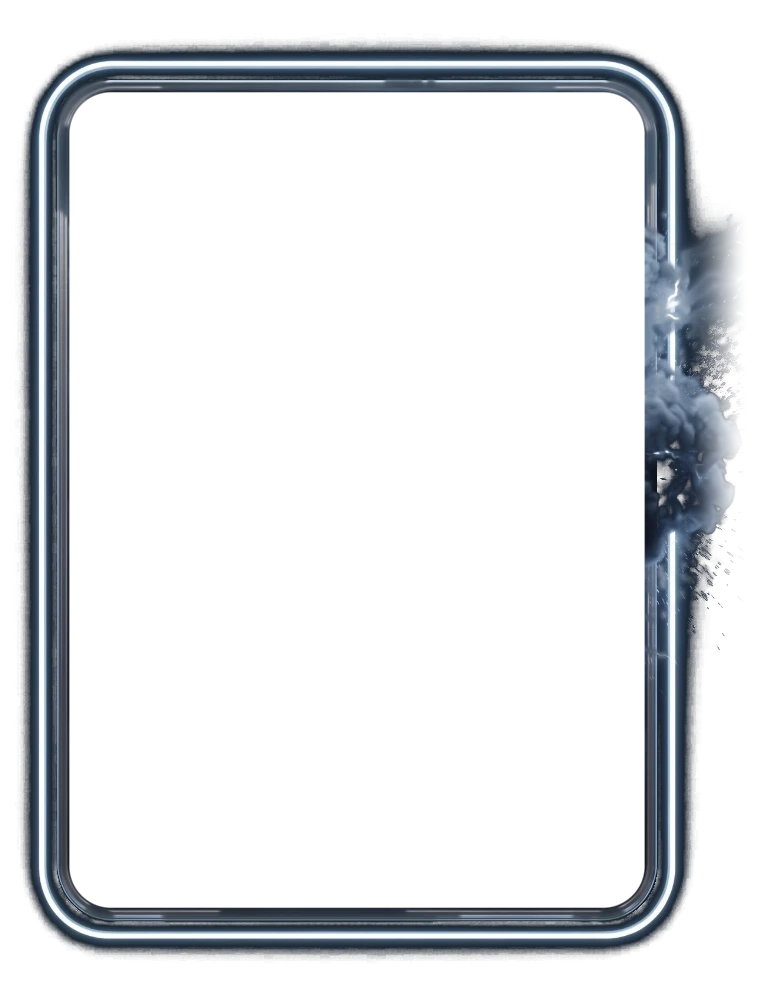
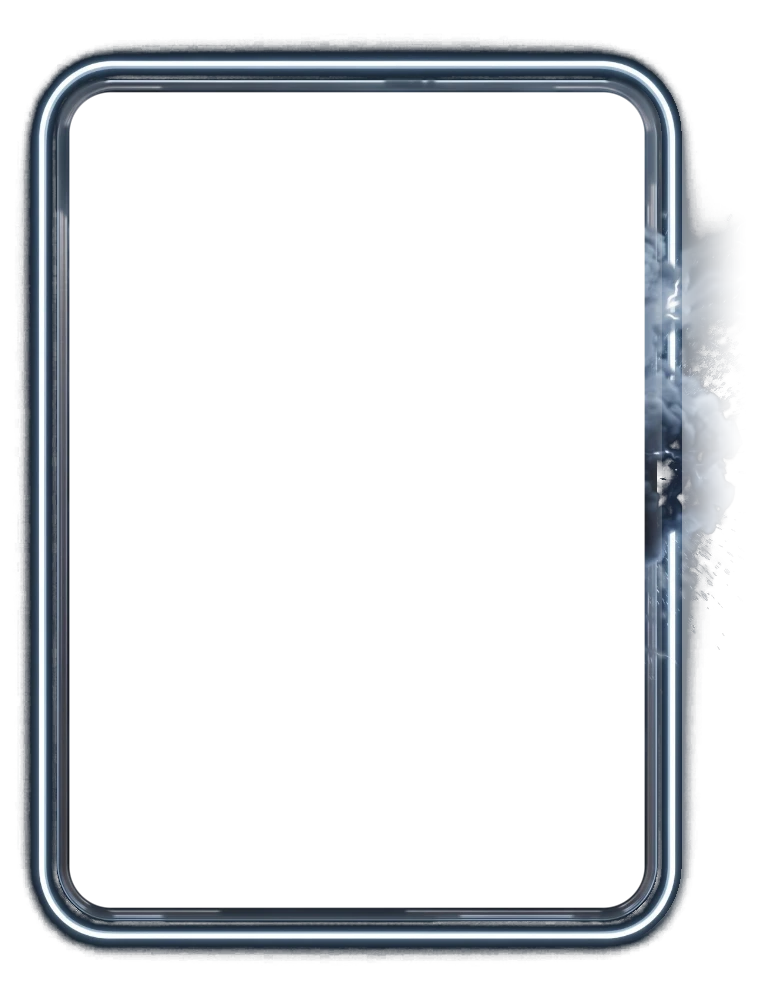
fade the Nuvem carregada cloud smoothly instead of a straight cut

Changed region(s): [[0.8372, 0.093, 0.9612, 0.93]]

diff --git a/.claude/rules/design-system.md b/.claude/rules/design-system.md
@@ -37,7 +37,7 @@ Desde 2026-10-29 todas as cartas usam a `CanchaCard` (o `PlayerCard` a chama). A
 - **Lenda do Trovão** (carta de prestígio **do evento Toró**, na seção Evento da Loja, **nível 5, 600 CC**, à venda só até 30/11/2026; aprovada pelo dono do app em 2026-10-31, primeiro como fixa no nível 10 e no mesmo dia passada para o evento no nível 5): a **moldura de metal dourado envelhecido** de um concept que o dono criou no Gemini, com o raio no topo e raios dourados e azuis, entra por fora da carta como arte (`overflow`), **sem o tubo de neon da carta** (`artFrame`), cobrindo uns 12 px da borda; os **raios azuis estalam como trovão** (`overflowBolts`; os dourados ficam acesos, porque têm a cor do metal e não dá para separar pela cor); o fundo é o miolo da arte de tempestade dele (nuvens carregadas com luz dourada). Scripts `prototipos/skin-lenda-arte.cjs` (moldura e raios, do concept) e `skin-lenda-fundo.cjs` (fundo). Para ficar perfeita, o dono vai gerar no Gemini a moldura, o fundo e os raios em peças separadas. Testadas e descartadas no caminho, como experimento: a carta com a arte de chuva (árvore e água) e a de tempestade com moldura azul e dourada.
 - **Skins premium com cristais (aprovadas pelo dono do app em 2026-11-01; Esmeralda, Safira, Ametista e Rubi):** uma arte só que o dono gerou no Gemini (safira e ouro: fundo azul-noite com estrelas, fio de ouro, neon e um aglomerado de cristais com pepitas de ouro que sai pelo lado direito **por cima** da moldura), reaproveitada nas quatro pedras girando só o tom dos azuis (o ouro fica). `prototipos/premium-v2.cjs` ajusta a arte: proporção 5:7, o neon da arte é **redesenhado concêntrico ao ouro** (respiro de ~1,5% da largura nos quatro lados e nos cantos; o da arte tinha o canto mais fechado e um vão grande) e só ao lado do aglomerado vale o neon original, com passagem suave; saem `premium-<pedra>.webp` (fundo na janela) e `premium-<pedra>-vaza.webp` (moldura e cristais por fora, mais larga só para a direita: `overflowWidth` 774/714, porque o aglomerado passa da sobra de 8%). Cor nova de pedra = uma linha em `GEMS`. Roupas com `artFrame`, `overflow` e `overflowWidth`. **Lição do dono (2026-11-01):** o fundo da carta é o que mais pesa no premium; neon contínuo, fino e simétrico (sem aberturas irregulares); o que vaza passa por cima da moldura. Faixa de estatísticas continua escura e sólida (o vidro fosco foi testado e descartado: misturava estilos). Gemini: dar o gabarito 5:7 e pedir uma camada por mensagem. **O story de compartilhar não usa essa arte** (só cartas de prêmio).
 - **Ícone (2026-11-01, mesmo caminho, outra arte do Gemini):** mármore branco-creme com veios dourados, tubo e fio de ouro (já concêntricos, mantidos como vieram), aglomerado de quartzo, diamantes e pepitas de ouro por cima da moldura; `prototipos/premium-icone.cjs` (sem girar cor). Fundo claro: a roupa leva `clean` (sem a sombra atrás da pessoa, sem a vinheta e sem o degradê escuro que desce até as estatísticas: no mármore eles apareciam como sujeira). **Regra que serve para as próximas artes:** por dentro da carta, a camada de fora (`-vaza`) cobre só o que está fora da janela da carta (fio de ouro e cantos, medido pela janela arredondada); se ela entrar na janela, vira uma faixa por cima do ombro da foto (foi o que o dono viu na Ícone). A foto de exemplo termina com um corte reto antes da borda: com a faixa fora da janela, o corpo chega às duas bordas. A rampa da camada de fora fica 1 a 3 px **por dentro** da janela, onde o fundo sempre está presente: se ela passa da borda (que cai no meio de um pixel), uma coluna meio transparente deixa o escuro de trás aparecer e vira um risco fino por cima dos cristais. Os cristais translúcidos deixam ver o fio de ouro por baixo, como na arte. As premium com cristais (Safira etc.) ainda deixam ~7 px de faixa por cima da foto.
-- **Nuvem carregada (2026-11-01, tema criado do zero no Gemini, sem referência do FIFA, aprovada pelo dono do app):** céu de tempestade em cinza-chumbo e azul-acinzentado, fio de prata, tubo de neon branco, nuvem carregada com raios brancos ramificados que passa por cima da moldura. `prototipos/premium-nuvem.cjs` (mesmas medidas do painel da Ícone) **separa os raios**: tira do fundo tudo o que é branco e brilhante (menos o fio e o tubo) preenchendo com a média da nuvem em volta (suave: blocos apareciam com folga grande e fundo a 1/4 da resolução) e põe os raios em duas camadas que piscam juntas, `innerBolts` (janela, atrás do jogador, `z-2`) e `overflowBolts` (por fora, por cima da moldura), com `cc-thunder-flash` (apagam por inteiro, dois clarões, ciclo de 3,2 s; só `opacity`; com movimento reduzido ficam acesos). A nuvem esmaece antes da borda da arte (o aglomerado vinha cortado reto). A **moldura elétrica e os mini raios em código** (`ElectricTrim`, `CloudBolts`, `lib/electric-trim.ts`) saíram. Pedido do dono: "os raios acendendo".
+- **Nuvem carregada (2026-11-01, tema criado do zero no Gemini, sem referência do FIFA, aprovada pelo dono do app):** céu de tempestade em cinza-chumbo e azul-acinzentado, fio de prata, tubo de neon branco, nuvem carregada com raios brancos ramificados que passa por cima da moldura. `prototipos/premium-nuvem.cjs` (mesmas medidas do painel da Ícone) **separa os raios**: tira do fundo tudo o que é branco e brilhante (menos o fio e o tubo) preenchendo com a média da nuvem em volta (suave: blocos apareciam com folga grande e fundo a 1/4 da resolução) e põe os raios em duas camadas que piscam juntas, `innerBolts` (janela, atrás do jogador, `z-2`) e `overflowBolts` (por fora, por cima da moldura), com `cc-thunder-flash` (apagam por inteiro, dois clarões, ciclo de 3,2 s; só `opacity`; com movimento reduzido ficam acesos). A nuvem vinha cortada reta pela borda direita da imagem: ela **esmaece num degradê longo (~210 px da arte)**; um recorte com ruído, que imitava fumaça, ficou bruto e foi descartado (o dono pediu o esmaecimento suave). O tubo e o fio da moldura não esmaecem. A **moldura elétrica e os mini raios em código** (`ElectricTrim`, `CloudBolts`, `lib/electric-trim.ts`) saíram. Pedido do dono: "os raios acendendo".
 - **Relâmpago (2026-11-01, refeito com a arte dourada do Gemini; "o melhor design até aqui", segundo o dono do app):** referências de relâmpago dele (nuvens negras com raios dourados e laranja), moldura de fio de ouro fino e tubo de neon dourado, nuvem negra com raios e brasas passando por cima da moldura no lado direito. `prototipos/premium-relampago.cjs` (copiado do da Nuvem): a arte veio com a carta mais comprida que 5:7 (1585 × 985 px) e a altura é comprimida ~13% ao encaixar; o brilho laranja em volta dos raios é grande, então os raios são medidos pela **luminância** (só o núcleo claro) e o brilho fica no fundo; a nuvem esmaece antes da borda direita da imagem (a arte vinha cortada reta); `innerBolts` e `overflowBolts` piscam juntos (`cc-thunder-flash`). Substituiu a arte montada pelo dono em 2026-10-31 e o script `skin-relampago-arte.cjs`. **Lição para o Gemini:** pedir a carta em 70% da largura da imagem e o aglomerado inteiro dentro dela; ele devolve a carta mais comprida que 5:7, o que o script corrige.
 - **Toró (novembro de 2026; chave `temporal`; aprovado pelo dono do app em 2026-10-30, ligado em 31/10 e renomeado de "Temporal" para "Toró" no mesmo dia):** a **mesa tática** é uma **quadra alagada** renderizada pixel a pixel (lâmina de água com o piso por baixo, anéis dos pingos, marulho e o reflexo dos refletores dos cantos; meio escuro para as cartas; sem linhas, que cada campo já desenha; `prototipos/mesa-temporal.cjs`, `public/mesa/temporal.webp`). **Melhor Jogador** com a **mesma carta de fora de evento, o sol art déco** (pedido do dono do app em 2026-10-31; antes era a taça dourada no céu de tempestade, `premio-craque-temporal.webp`, que ficou sem uso), neon dourado, estrela no topo e um fio na base. **Destaques** (Atacante, Criativo, Defensor, Goleiro, Gol): a **mesma carta de fora de evento, a água com a nuvem chovendo** (pedido do dono do app em 2026-10-31; os raios dourados de marca d'água, `premio-destaque-temporal.webp`, ficaram sem uso). Loja: **Nuvem carregada** (aprovada pelo dono do app em 2026-10-31, no lugar do Trovão roxo, que ficava parecido com o Time do Mês): nuvens de tempestade pintadas em poucos tons, do cinza-azulado ao branco, com um canal de céu escuro atrás do jogador (`prototipos/skin-nuvem.cjs`), neon branco, a nuvem com raio no topo (`NEON_TRIMS.nuvem`), uma **moldura elétrica** em volta da metade de baixo, por fora (fio quebrado em zigue-zague, fios finos ondulando e faíscas, no estilo de uma moldura de raios que o dono mandou; `ElectricTrim`, `lib/electric-trim.ts`) e **mini raios no mesmo estilo** estalando nas nuvens de dentro, atrás do jogador (`CloudBolts`). Animação de trovão: os fios finos, as faíscas e os mini raios dão dois estalos rápidos e apagam, cada um no seu tempo (`cc-thunder-strike`/`cc-thunder-flash` no `globals.css`); só `opacity`, e com movimento reduzido fica parado (os mini raios somem). Testado e descartado pelo dono: as nuvens vazando para fora da carta (aparecia a divisa da carta) e raios grandes por cima delas; e uma skin de água com ondas de seda. E **Relâmpago** (refeito em 2026-10-31 a partir de uma **arte montada pelo próprio dono do app**, com referências do EA FC alteradas para o estilo do Cancha Club; `prototipos/relampago-arte-dono.jpg`): o miolo da arte (tempestade de nuvens com raios dourados, cacos e chão de triângulos em azul-noite) é o fundo, e a moldura dourada pintada, com o raio no topo, cacos e raios nas laterais, fica **por fora da carta** numa imagem transparente (`overflow`, `skin-relampago-vaza`); os **raios das decorações** ficam numa camada própria (`overflowBolts`, `skin-relampago-raios`) que **estala como trovão** (`cc-thunder-strike`), e a moldura de linhas retas fica sempre acesa. Neon dourado, sem enfeite de código (`trim: null`). `prototipos/skin-relampago-arte.cjs` separa as três imagens (medidas do tubo de dentro = borda da carta; o preto recortado pela luminância; os raios pelos retângulos medidos, sem as faixas das linhas). Testados e descartados pelo dono no caminho: asas de raio nas laterais (vazadas e cheias), base em suporte, coroa de raios, cantos art déco, moldura em zigue-zague, moldura em escudo, os fundos de rede de relâmpagos e de feixes de luz caindo, e fundos gerados pelo FLUX. **Lição do dono (2026-10-31):** arte desenhada só com código parece "feita no Paint"; para skins premium, ele quer textura real (render 3D, metal, nuvem volumétrica): arte gerada por modelo aberto (FLUX.1-schnell, grátis no Hugging Face, cota pequena sem login) ou montada por ele.relampago`). Aviso de vencedores, pacote e story em azul-tempestade com nuvem de raio.
 - **Halloween:** Lobisomem em neon azul-luar com **garras nas laterais e presas na base**; Vampiro em neon vermelho-sangue com **morcego no topo e a base recortada como asa**.
